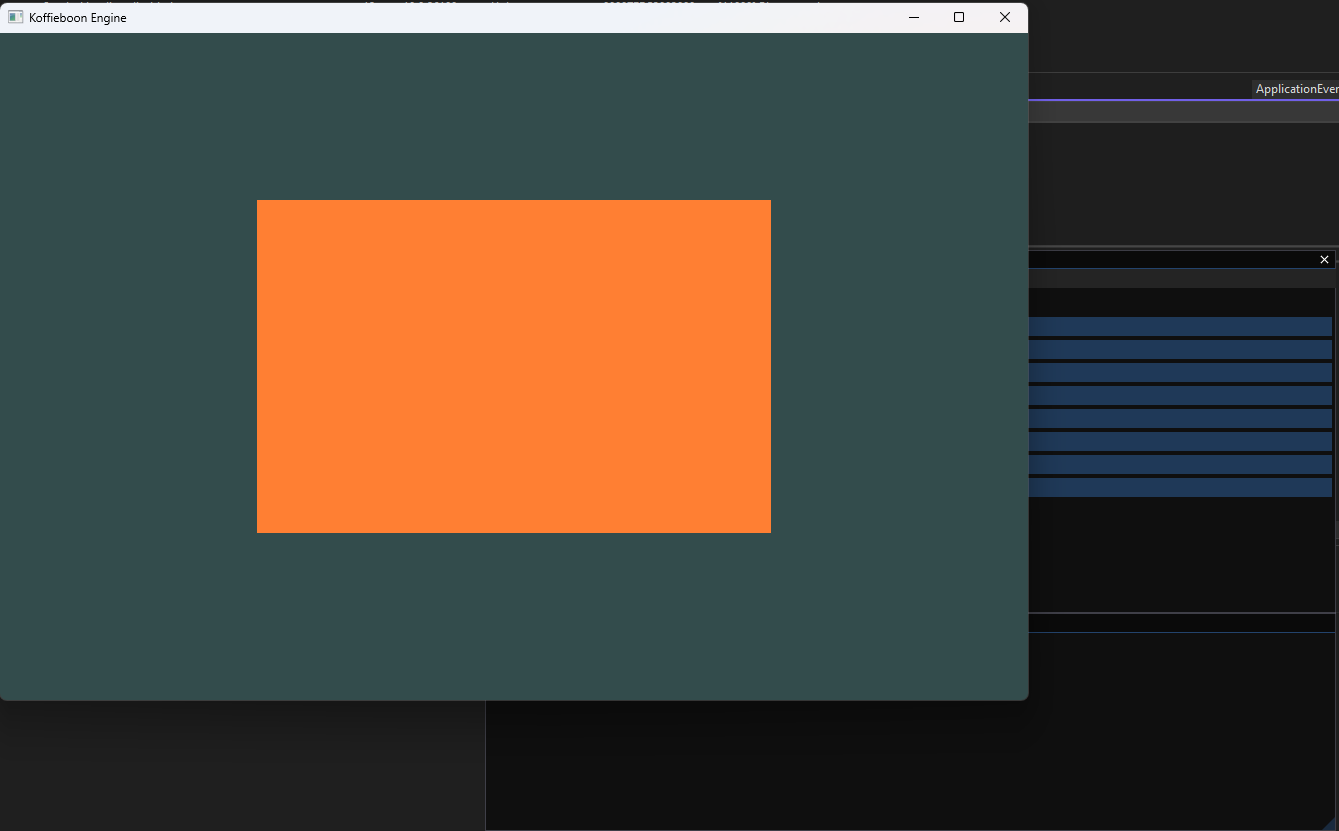
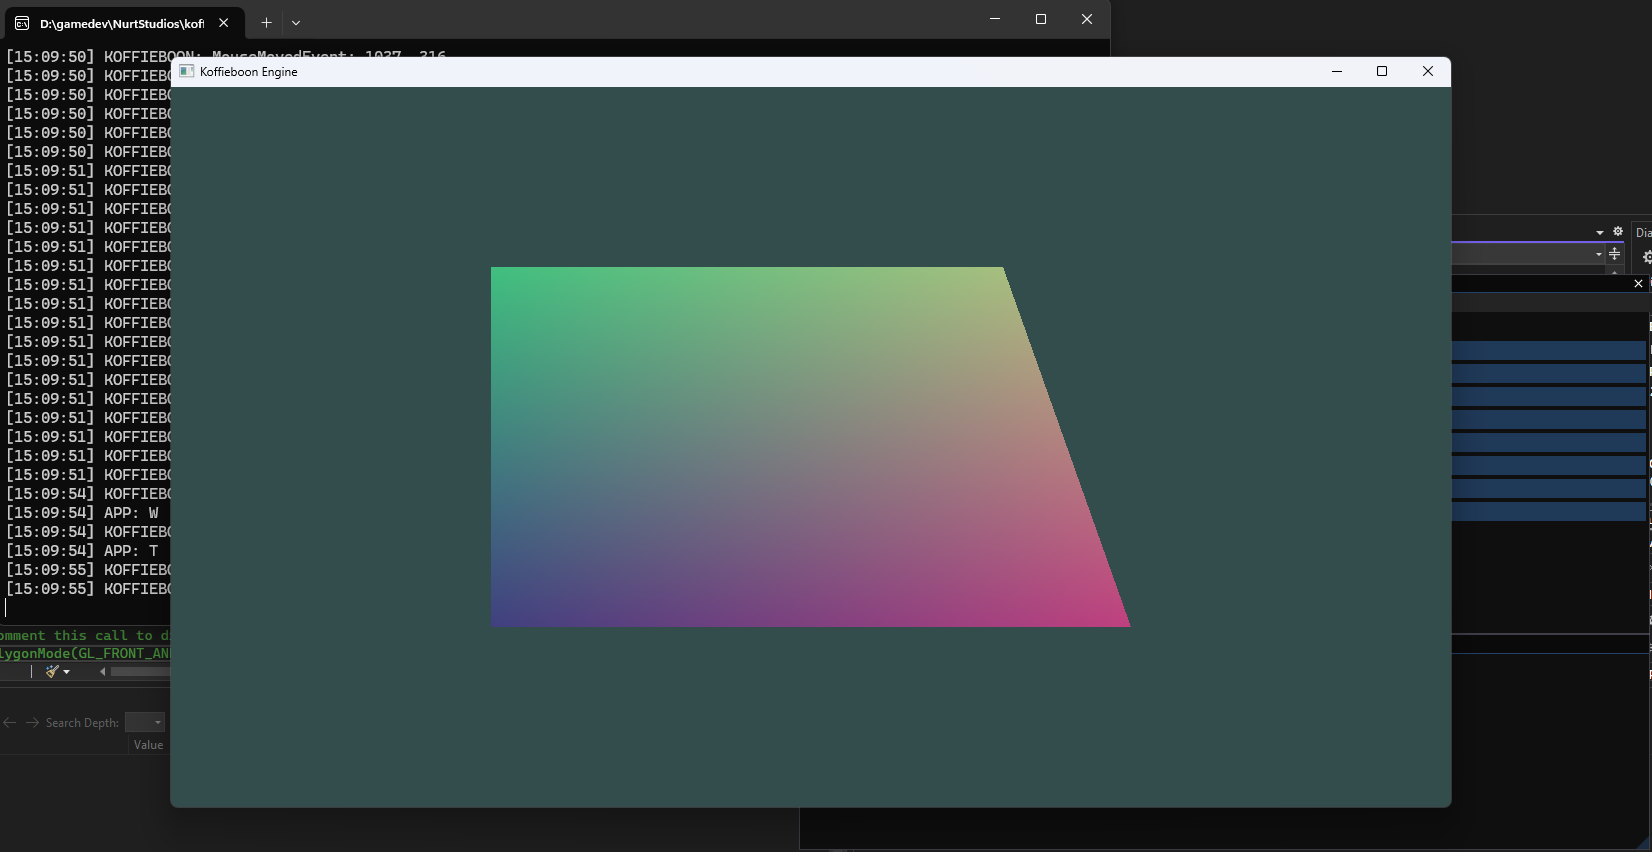
updated shader code and screenshot on readme

diff --git a/Engine/src/Koffieboon/Application.cpp b/Engine/src/Koffieboon/Application.cpp
@@ -11,18 +11,31 @@ namespace Koffieboon
 
 	Application* Application::s_Instance = nullptr;
 
-	const char* vertexShaderSource = "#version 330 core\n"
-		"layout (location = 0) in vec3 aPos;\n"
-		"void main()\n"
-		"{\n"
-		"   gl_Position = vec4(aPos.x, aPos.y, aPos.z, 1.0);\n"
-		"}\0";
-	const char* fragmentShaderSource = "#version 330 core\n"
-		"out vec4 FragColor;\n"
-		"void main()\n"
-		"{\n"
-		"   FragColor = vec4(1.0f, 0.5f, 0.2f, 1.0f);\n"
-		"}\n\0";
+	const char* vertexShaderSource = R"(
+			#version 330 core
+			
+			layout(location = 0) in vec3 a_Position;
+
+			out vec3 v_Position;
+
+			void main()
+			{
+				v_Position = a_Position;
+				gl_Position = vec4(a_Position, 1.0);	
+			}
+		)";
+	const char* fragmentShaderSource = R"(
+			#version 330 core
+			
+			layout(location = 0) out vec4 color;
+
+			in vec3 v_Position;
+
+			void main()
+			{
+				color = vec4(v_Position * 0.5 + 0.5, 1.0);
+			}
+		)";
 
 	Application::Application()
 	{
@@ -79,7 +92,7 @@ namespace Koffieboon
 		glBindVertexArray(0);
 
 		// uncomment this call to draw in wireframe polygons.
-		glPolygonMode(GL_FRONT_AND_BACK, GL_LINE);
+		//glPolygonMode(GL_FRONT_AND_BACK, GL_LINE);
 
 		// Reset the shader
 		m_Shader.reset(new Shader(vertexShaderSource, fragmentShaderSource));
